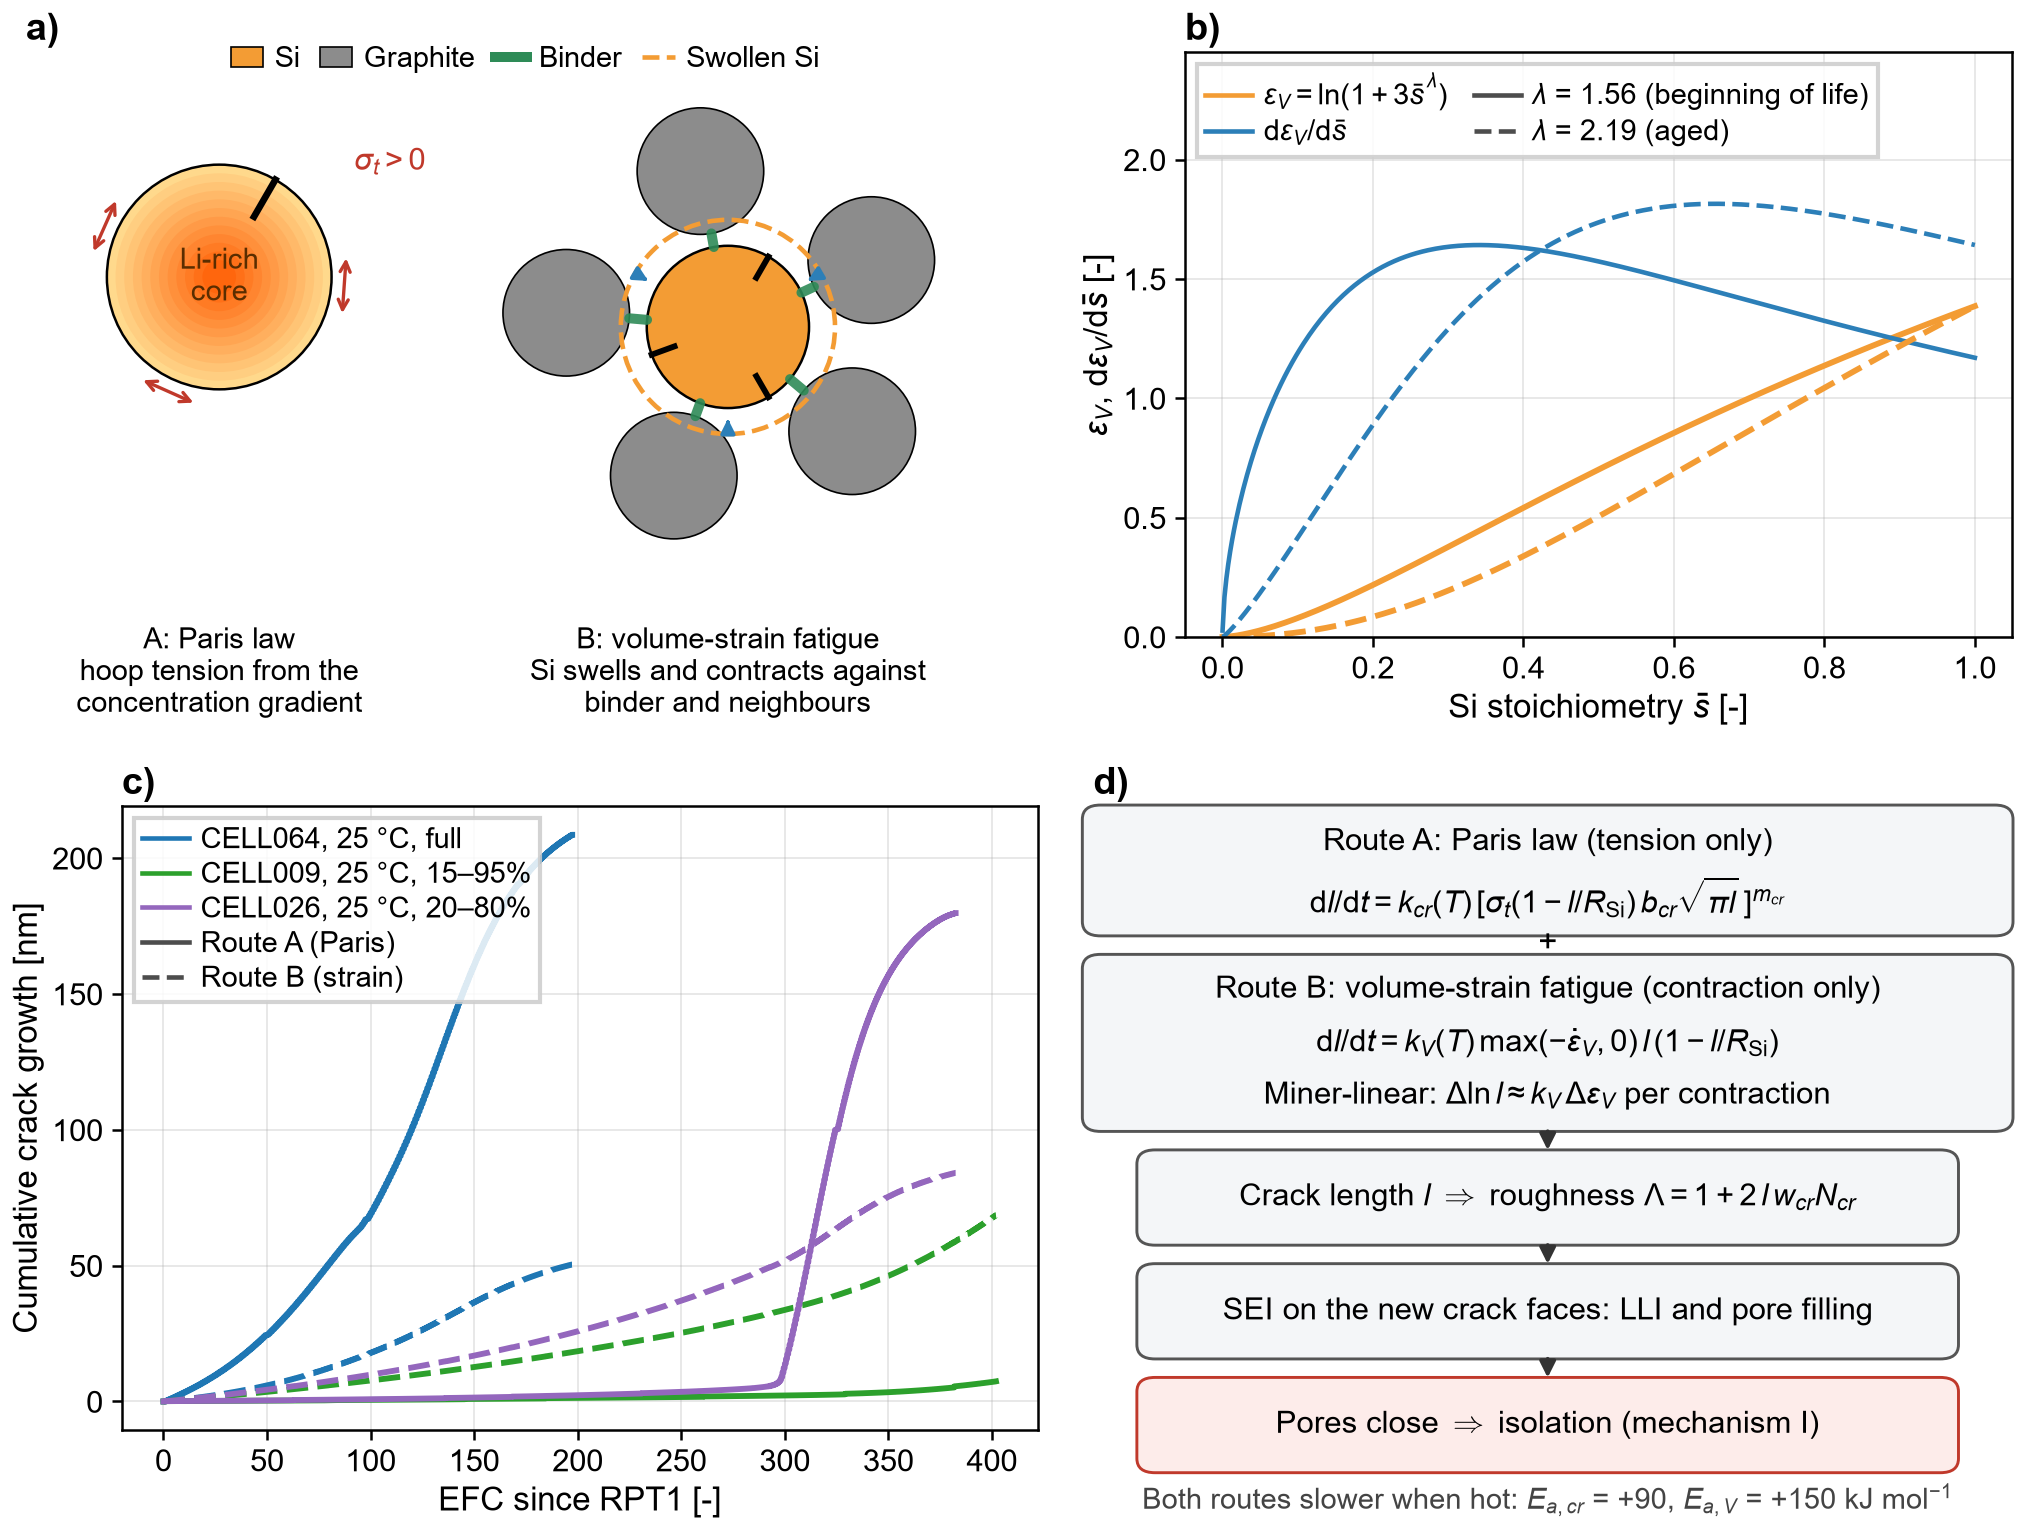
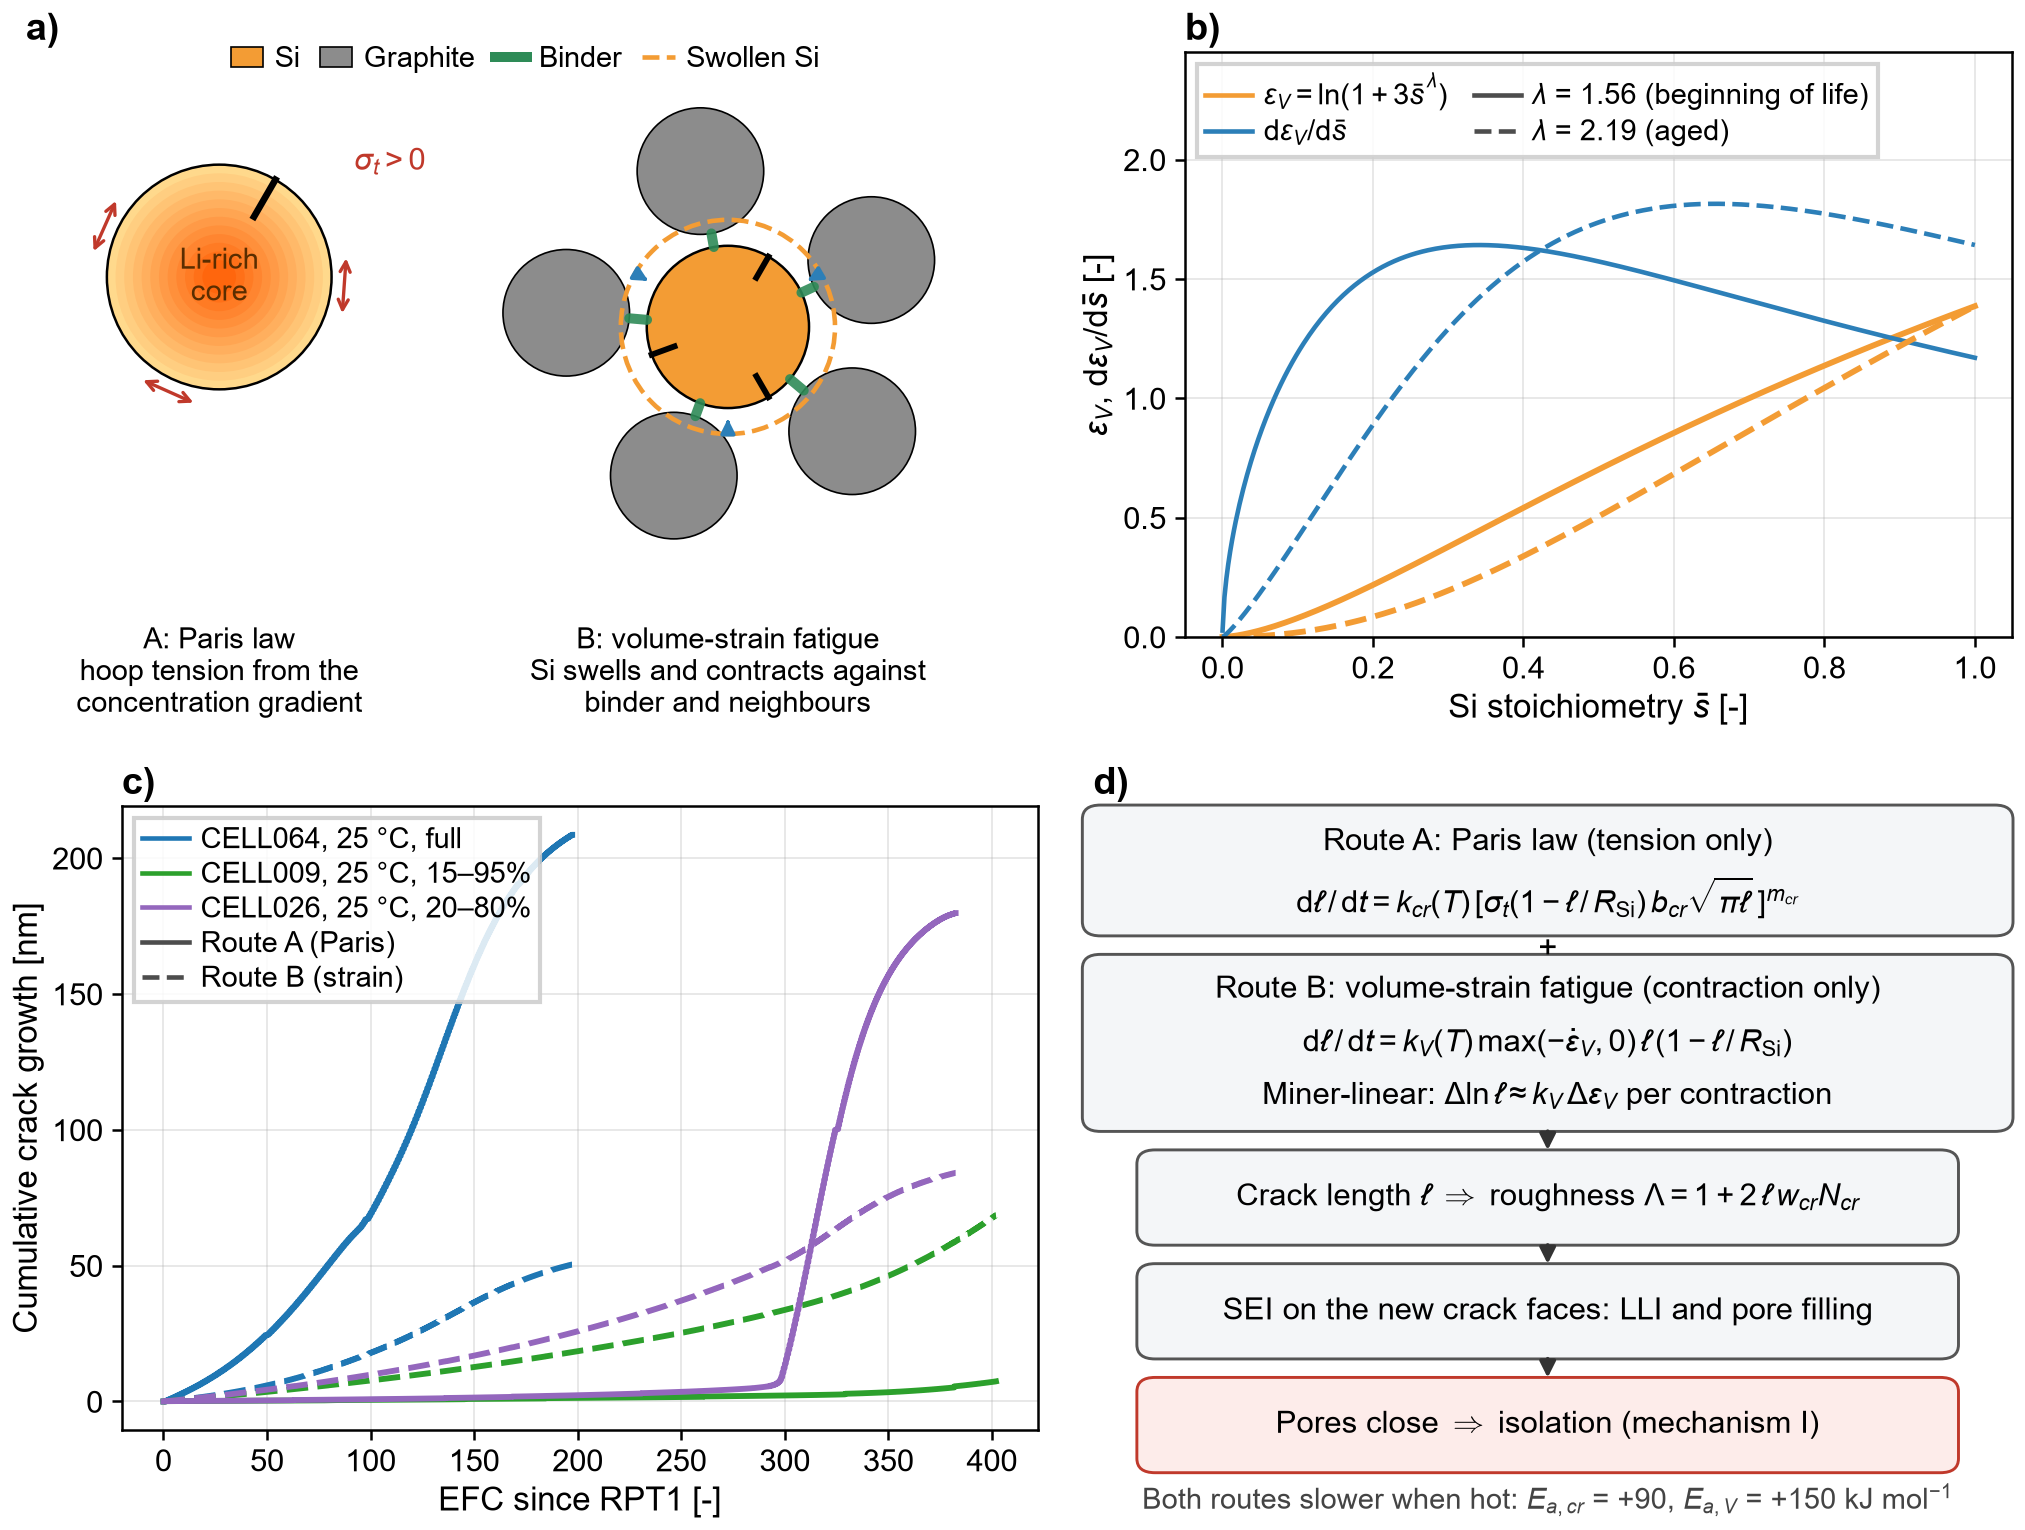
paper/sigr: Fig. 3 uses ell for the crack length (sans-serif l/R read as //) and centres the '+' between the route boxes

diff --git a/paper/sigr/figures.py b/paper/sigr/figures.py
@@ -280,13 +280,13 @@ def schematic_mech2(results_dir):
     a3 = sf[1, 1].subplots()
     a3.axis("off")
     _box(a3, 0.0, 0.83, 1.0, 0.16, [("Route A: Paris law (tension only)", 7.5),
-                                    (r"$\mathrm{d}l/\mathrm{d}t = k_{cr}(T)\,[\sigma_t(1-l/R_\mathrm{Si})\,b_{cr}\sqrt{\pi l}\,]^{m_{cr}}$", 7.5)])
-    a3.text(0.5, 0.807, "+", ha="center", va="center", fontsize=8, transform=a3.transAxes)
+                                    (r"$\mathrm{d}\ell \,/\,\mathrm{d}t = k_{cr}(T)\,[\sigma_t(1-\ell \,/\,R_\mathrm{Si})\,b_{cr}\sqrt{\pi \ell}\,]^{m_{cr}}$", 7.5)])
+    a3.text(0.5, 0.8035, "+", ha="center", va="center_baseline", fontsize=8, transform=a3.transAxes)
     _box(a3, 0.0, 0.555, 1.0, 0.225, [("Route B: volume-strain fatigue (contraction only)", 7.5),
-                                      (r"$\mathrm{d}l/\mathrm{d}t = k_V(T)\,\max(-\dot\varepsilon_V, 0)\,l\,(1-l/R_\mathrm{Si})$", 7.5),
-                                      (r"Miner-linear: $\Delta\ln l \approx k_V\,\Delta\varepsilon_V$ per contraction", 7.5)])
+                                      (r"$\mathrm{d}\ell \,/\,\mathrm{d}t = k_V(T)\,\max(-\dot\varepsilon_V, 0)\,\ell \,(1-\ell \,/\,R_\mathrm{Si})$", 7.5),
+                                      (r"Miner-linear: $\Delta\ln \ell  \approx k_V\,\Delta\varepsilon_V$ per contraction", 7.5)])
     _arrow(a3, 0.5, 0.555, 0.5, 0.505)
-    _box(a3, 0.06, 0.395, 0.88, 0.11, [(r"Crack length $l$ $\Rightarrow$ roughness $\Lambda = 1 + 2\,l\,w_{cr}N_{cr}$", 7.5)])
+    _box(a3, 0.06, 0.395, 0.88, 0.11, [(r"Crack length $\ell $ $\Rightarrow$ roughness $\Lambda = 1 + 2\,\ell \,w_{cr}N_{cr}$", 7.5)])
     _arrow(a3, 0.5, 0.395, 0.5, 0.345)
     _box(a3, 0.06, 0.235, 0.88, 0.11, [("SEI on the new crack faces: LLI and pore filling", 7.5)])
     _arrow(a3, 0.5, 0.235, 0.5, 0.185)
